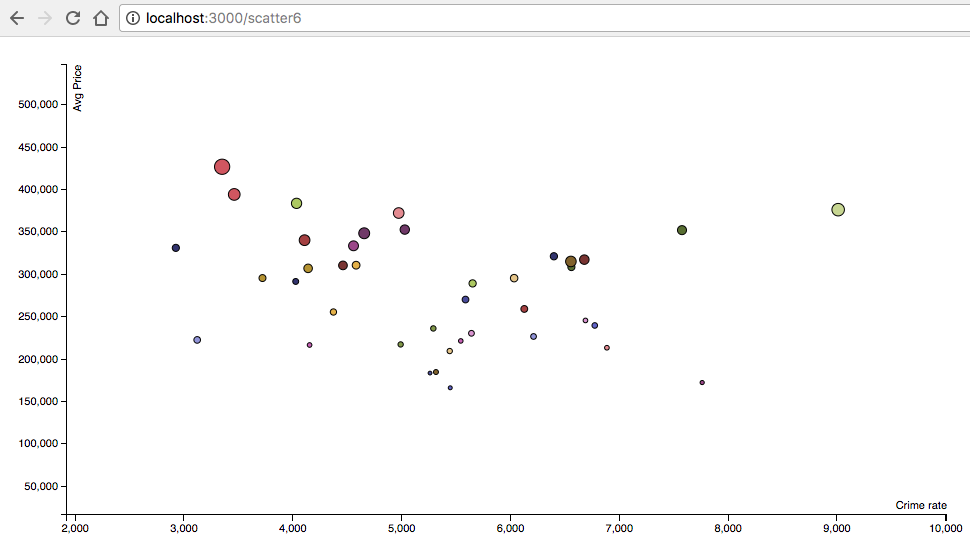
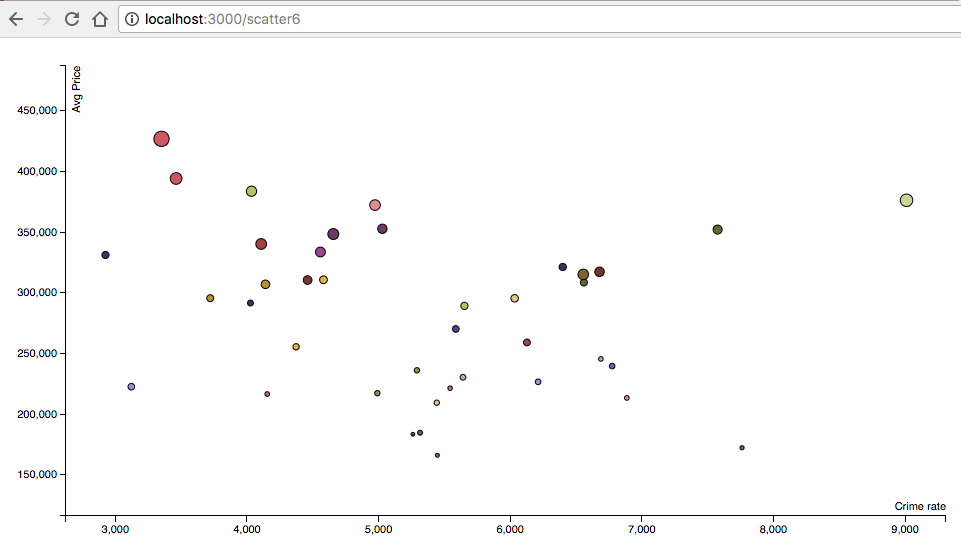
fix: minor change in plot-6

diff --git a/src/p3_visualization/plot-6/scatter6.html b/src/p3_visualization/plot-6/scatter6.html
@@ -87,8 +87,8 @@ d3.csv("price_crimerate_450000.csv", function(error, data) {
   });
 
   // don't want dots overlapping axis, so add in buffer to data domain
-  xScale.domain([d3.min(data, xValue)-1000, d3.max(data, xValue)+1000]);
-  yScale.domain([d3.min(data, yValue)-150000, d3.max(data, yValue)+120000]);
+  xScale.domain([d3.min(data, xValue)-300, d3.max(data, xValue)+300]);
+  yScale.domain([d3.min(data, yValue)-50000, d3.max(data, yValue)+60000]);
 
   // x-axis
   svg.append("g")
